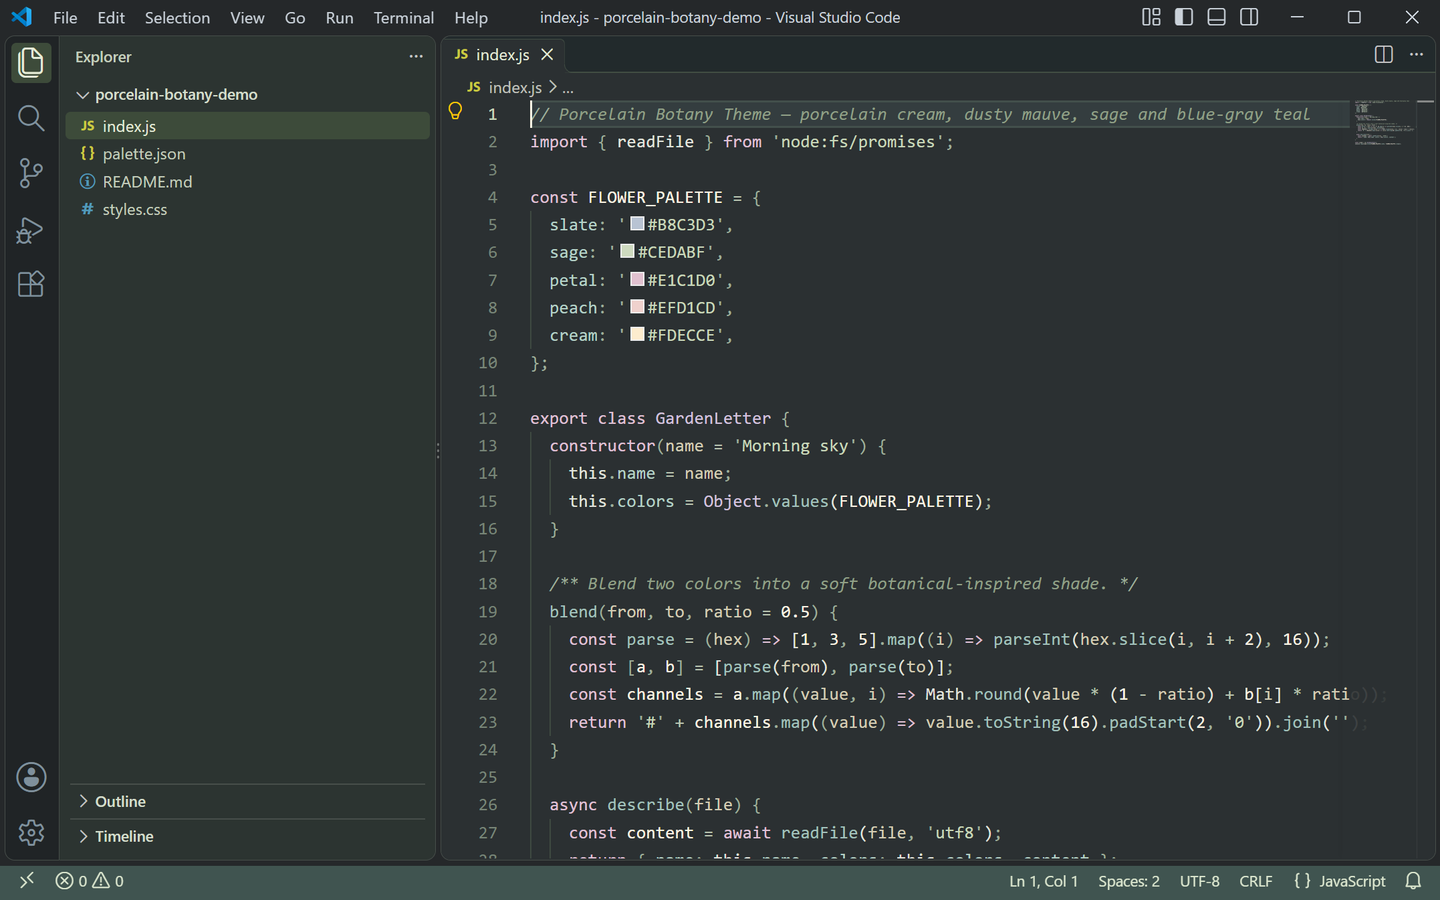
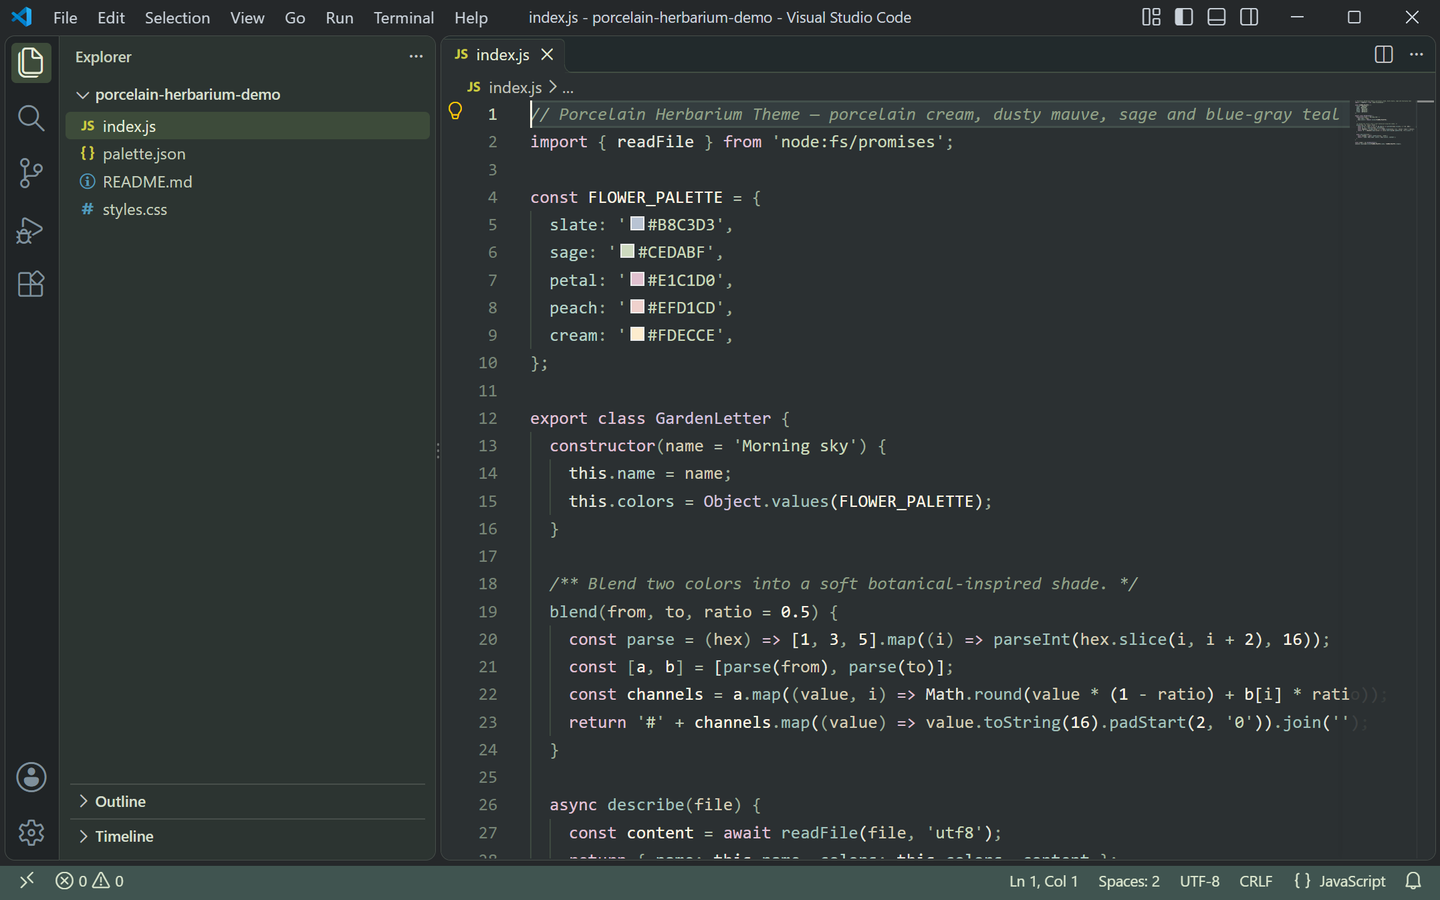
全量改名：Porcelain Botany Theme -> Porcelain Herbarium Theme
- package.json 显示名、两套主题标签与主题文件路径全部改为 herbarium，主题 JSON 同步更名
- README、商店说明、示例工程与截图脚本中的名称一并同步
- 以新标签重拍两张真实窗口预览图（窗口标题 porcelain-herbarium-demo），重新打包并校验

Changed region(s): [[0.4688, 0.1244, 0.9375, 0.1556], [0.375, 0.0, 0.625, 0.0311], [0.125, 0.0933, 0.1875, 0.1244]]

diff --git a/scripts/demo-project/index.js b/scripts/demo-project/index.js
@@ -1,4 +1,4 @@
-// Porcelain Botany Theme — porcelain cream, dusty mauve, sage and blue-gray teal
+// Porcelain Herbarium Theme — porcelain cream, dusty mauve, sage and blue-gray teal
 import { readFile } from 'node:fs/promises';
 
 const FLOWER_PALETTE = {

diff --git a/scripts/capture-real-screenshots.py b/scripts/capture-real-screenshots.py
@@ -1,5 +1,5 @@
 # -*- coding: utf-8 -*-
-"""Capture real VS Code windows running the Porcelain Botany theme.
+"""Capture real VS Code windows running the Porcelain Herbarium theme.
 
 For every variant (light / dark) the script:
   1. builds an isolated VS Code profile (own --user-data-dir / --extensions-dir),
@@ -42,11 +42,11 @@ EXTRA_CROP = 3
 PUBLISHER = "lilinhuang"
 NAME = "porcelain-herbarium-theme"
 VERSION = "1.0.0"
-WORK_NAME = "porcelain-botany-demo"   # demo folder name doubles as the window marker
+WORK_NAME = "porcelain-herbarium-demo"   # demo folder name doubles as the window marker
 
 VARIANTS = [
-    ("light", "Porcelain Botany Theme Light"),
-    ("dark", "Porcelain Botany Theme Dark"),
+    ("light", "Porcelain Herbarium Theme Light"),
+    ("dark", "Porcelain Herbarium Theme Dark"),
 ]
 
 user32 = ctypes.WinDLL("user32", use_last_error=True)

diff --git a/scripts/validate.py b/scripts/validate.py
@@ -2,8 +2,8 @@ import json,re,zipfile
 from pathlib import Path
 from PIL import Image,ImageStat
 p=Path(__file__).resolve().parents[1]
-out=['# Porcelain Botany Theme color specification','', '| VS Code region | Light | Dark |','|---|---|---|']
-themes=[json.loads((p/'themes'/f'porcelain-botany-{v}-color-theme.json').read_text()) for v in ['light','dark']]
+out=['# Porcelain Herbarium Theme color specification','', '| VS Code region | Light | Dark |','|---|---|---|']
+themes=[json.loads((p/'themes'/f'porcelain-herbarium-{v}-color-theme.json').read_text()) for v in ['light','dark']]
 for k in themes[0]['colors']:
     out.append(f"| `{k}` | `{themes[0]['colors'][k]}` | `{themes[1]['colors'][k]}` |")
 (p/'COLOR-SPEC.md').write_text('\n'.join(out)+'\n',encoding='utf-8')

diff --git a/README.md b/README.md
@@ -1,8 +1,8 @@
 <p align="center">
-  <img src="https://raw.githubusercontent.com/vaxicy/porcelain-herbarium-theme/main/assets/icon.png" alt="Porcelain Botany Theme logo" width="128">
+  <img src="https://raw.githubusercontent.com/vaxicy/porcelain-herbarium-theme/main/assets/icon.png" alt="Porcelain Herbarium Theme logo" width="128">
 </p>
 
-<h1 align="center">Porcelain Botany Theme</h1>
+<h1 align="center">Porcelain Herbarium Theme</h1>
 
 <p align="center">
   <a href="https://marketplace.visualstudio.com/items?itemName=lilinhuang.porcelain-herbarium-theme"><img src="https://img.shields.io/badge/VS%20Code-Theme-71869B?logo=visual-studio-code" alt="VS Code Theme"></a>
@@ -19,7 +19,7 @@ A botanical study pressed onto porcelain: **cream-white paper**, **dusty mauve p
 
 | Light 浅色 | Dark 深色 |
 | --- | --- |
-| ![Porcelain Botany Theme Light](https://raw.githubusercontent.com/vaxicy/porcelain-herbarium-theme/main/store-assets/screenshots/en/screenshot-light.png) | ![Porcelain Botany Theme Dark](https://raw.githubusercontent.com/vaxicy/porcelain-herbarium-theme/main/store-assets/screenshots/en/screenshot-dark.png) |
+| ![Porcelain Herbarium Theme Light](https://raw.githubusercontent.com/vaxicy/porcelain-herbarium-theme/main/store-assets/screenshots/en/screenshot-light.png) | ![Porcelain Herbarium Theme Dark](https://raw.githubusercontent.com/vaxicy/porcelain-herbarium-theme/main/store-assets/screenshots/en/screenshot-dark.png) |
 
 > Both previews are captured from a real VS Code window running the theme — no mockups.
 >
@@ -93,13 +93,13 @@ Every surface below is themed in both variants (144 UI colors each):
 
 ## Features / 功能
 
-- **Two coordinated variants** — `Porcelain Botany Theme Light` and `Porcelain Botany Theme Dark` ship in one extension.
+- **Two coordinated variants** — `Porcelain Herbarium Theme Light` and `Porcelain Herbarium Theme Dark` ship in one extension.
 - **One porcelain palette** — cream and warm-sand surfaces in light, deep slate in dark, with sage, mauve and slate-blue accents.
 - **Readable syntax colors** — dusty-mauve keywords, sage strings, slate-blue functions and amber numbers, tuned for contrast on both backgrounds.
 - **Semantic highlighting** enabled, so language-aware tokens are colored beyond the classic TextMate scopes.
 - **Terminal ANSI colors** taken from the same palette, so the integrated terminal sits inside the theme.
 
-- **明暗两套协调变体**——同一扩展内含 `Porcelain Botany Theme Light` 与 `Porcelain Botany Theme Dark`。
+- **明暗两套协调变体**——同一扩展内含 `Porcelain Herbarium Theme Light` 与 `Porcelain Herbarium Theme Dark`。
 - **一套瓷白植物色板**——浅色为瓷白与暖砂的底色，深色为深石板，配鼠尾草绿、藕紫与灰蓝点缀。
 - **可读的语法配色**——藕紫的关键字、鼠尾草绿的字符串、灰蓝的函数与琥珀色数字，在明暗底色上都保持对比。
 - **启用语义高亮**，在传统 TextMate scope 之外为语言感知的 token 着色。
@@ -109,12 +109,12 @@ Every surface below is themed in both variants (144 UI colors each):
 
 Requires VS Code 1.80 or newer.
 
-1. Search for **Porcelain Botany Theme** in the Extensions view (`Ctrl+Shift+X` / `Cmd+Shift+X`), or open the [Marketplace page](https://marketplace.visualstudio.com/items?itemName=lilinhuang.porcelain-herbarium-theme).
+1. Search for **Porcelain Herbarium Theme** in the Extensions view (`Ctrl+Shift+X` / `Cmd+Shift+X`), or open the [Marketplace page](https://marketplace.visualstudio.com/items?itemName=lilinhuang.porcelain-herbarium-theme).
 2. Or install from a VSIX: download `porcelain-herbarium-theme-1.0.0.vsix`, open the Command Palette (`Ctrl+Shift+P` / `Cmd+Shift+P`) and run **Extensions: Install from VSIX...**.
 
 需要 VS Code 1.80 或更高版本。
 
-1. 在扩展面板（`Ctrl+Shift+X` / `Cmd+Shift+X`）搜索 **Porcelain Botany Theme**，或打开 [Marketplace 页面](https://marketplace.visualstudio.com/items?itemName=lilinhuang.porcelain-herbarium-theme)。
+1. 在扩展面板（`Ctrl+Shift+X` / `Cmd+Shift+X`）搜索 **Porcelain Herbarium Theme**，或打开 [Marketplace 页面](https://marketplace.visualstudio.com/items?itemName=lilinhuang.porcelain-herbarium-theme)。
 2. 也可以从 VSIX 安装：下载 `porcelain-herbarium-theme-1.0.0.vsix`，打开命令面板（`Ctrl+Shift+P` / `Cmd+Shift+P`），运行 **Extensions: Install from VSIX...** 并选择该文件。
 
 Or from the command line:
@@ -127,11 +127,11 @@ ext install lilinhuang.porcelain-herbarium-theme
 
 ## Activation / 启用
 
-Open the Command Palette (`Ctrl+Shift+P` / `Cmd+Shift+P`), run **Preferences: Color Theme**, and choose **Porcelain Botany Theme Light** or **Porcelain Botany Theme Dark**.
+Open the Command Palette (`Ctrl+Shift+P` / `Cmd+Shift+P`), run **Preferences: Color Theme**, and choose **Porcelain Herbarium Theme Light** or **Porcelain Herbarium Theme Dark**.
 
 To switch between the two variants quickly, use the keyboard shortcut `Ctrl+K Ctrl+T` at any time.
 
-打开命令面板（`Ctrl+Shift+P` / `Cmd+Shift+P`），运行 **Preferences: Color Theme**，选择 **Porcelain Botany Theme Light** 或 **Porcelain Botany Theme Dark**。
+打开命令面板（`Ctrl+Shift+P` / `Cmd+Shift+P`），运行 **Preferences: Color Theme**，选择 **Porcelain Herbarium Theme Light** 或 **Porcelain Herbarium Theme Dark**。
 
 随时可用快捷键 `Ctrl+K Ctrl+T` 在两套变体之间快速切换。
 

diff --git a/COLOR-SPEC.md b/COLOR-SPEC.md
@@ -1,4 +1,4 @@
-# Porcelain Botany Theme color specification
+# Porcelain Herbarium Theme color specification
 
 | VS Code region | Light | Dark |
 |---|---|---|

diff --git a/scripts/demo-project/README.md b/scripts/demo-project/README.md
@@ -1,3 +1,3 @@
-# Porcelain Botany
+# Porcelain Herbarium
 
 Porcelain cream, dusty mauve, sage and blue-gray slate.
